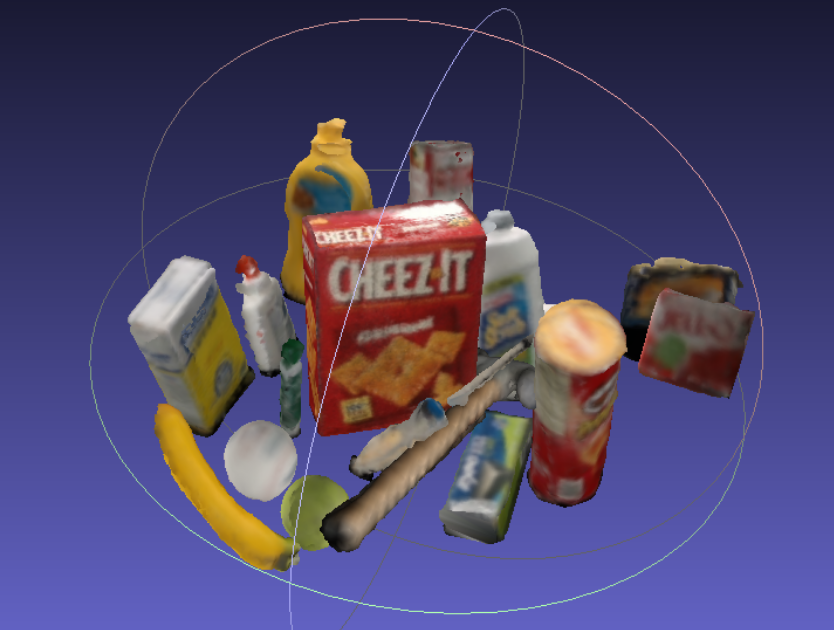
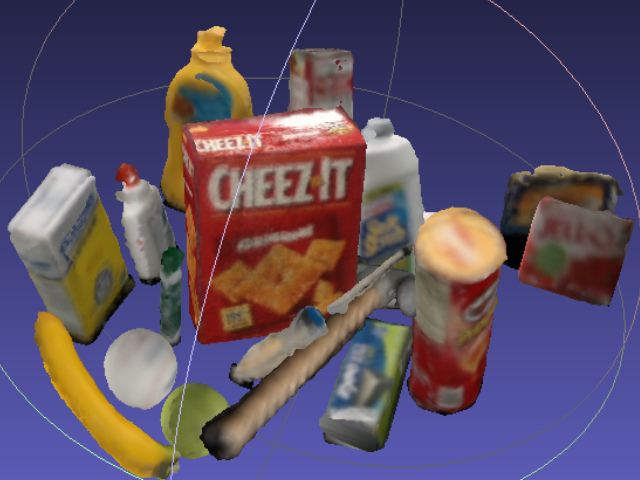
Updated cover pics

diff --git a/README.md b/README.md
@@ -8,7 +8,7 @@ This codes in this repository implement a raw 3D model acquisition pipeline thro
 
 The codes are currently written for a single object of interest per frame. They can be modified to create a dataset that has several items within a frame.
 
-![COVER](doc/cover.png)
+![cover](doc/cover.png) ![mask](doc/sugar.gif)
 
 ## Installation
 
